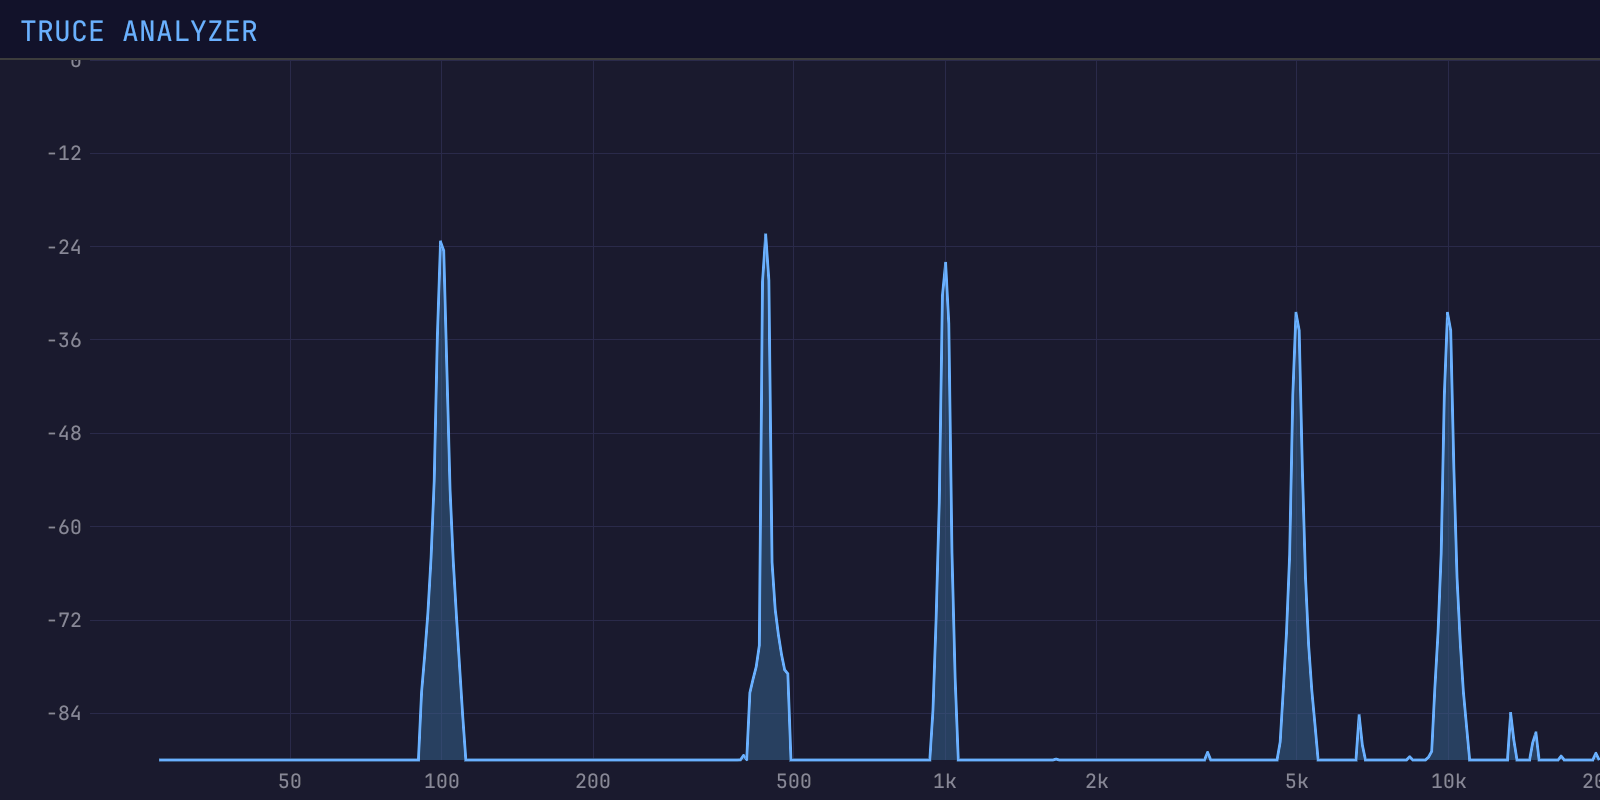
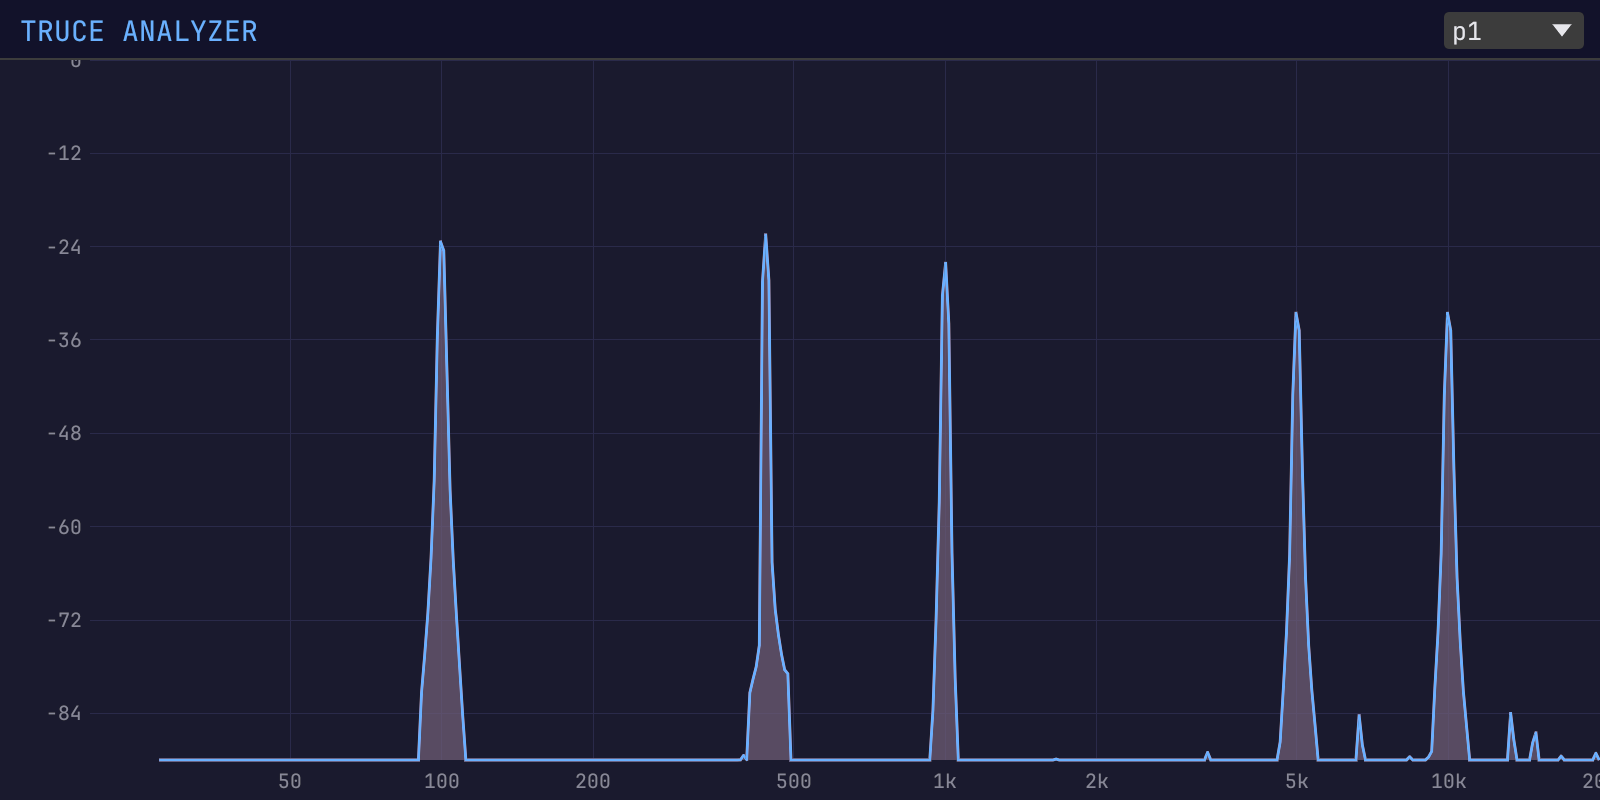
use egui's dropdown instead

diff --git a/src/lib.rs b/src/lib.rs
@@ -3,7 +3,6 @@ mod core;
 use std::sync::Arc;
 
 use truce::prelude::*;
-use truce_egui::widgets::param_dropdown;
 use truce_egui::{EguiEditor, ParamState};
 
 use crate::core::{
@@ -174,12 +173,22 @@ fn analyzer_ui(
                         .strong(),
                 );
                 ui.with_layout(egui::Layout::right_to_left(egui::Align::Center), |ui| {
-                    ui.add_space(10.0);
-                    let options: Vec<String> = ["Both", "Left", "Right", "Sum", "Diff"]
-                        .iter()
-                        .map(|s| s.to_string())
-                        .collect();
-                    param_dropdown(ui, state, P::Channel, "", 5, &options);
+                    ui.add_space(8.0);
+                    let channel_id: u32 = P::Channel.into();
+                    let current = state.format(channel_id);
+                    let options = ["Both", "Left", "Right", "Sum", "Diff"];
+                    egui::ComboBox::from_id_salt("channel_mode")
+                        .selected_text(current)
+                        .width(70.0)
+                        .show_ui(ui, |ui| {
+                            for (i, &label) in options.iter().enumerate() {
+                                let norm = i as f64 / (options.len() - 1) as f64;
+                                let selected = (state.get(channel_id) - norm).abs() < 0.01;
+                                if ui.selectable_label(selected, label).clicked() {
+                                    state.set_immediate(channel_id, norm);
+                                }
+                            }
+                        });
                 });
             });
         });
@@ -387,13 +396,9 @@ mod tests {
         truce_test::assert_no_nans(&result.output);
     }
 
-    #[test]
-    fn gui_screenshot() {
-        let freqs = cqt_center_frequencies();
-        let spectrum = Arc::new(SpectrumData::new(freqs));
+    fn generate_test_signal(spectrum: &Arc<SpectrumData>) {
         let mut core = AnalyzerCore::new(spectrum.clone());
         core.reset(44100.0);
-
         let sr = 44100.0f32;
         let pi2 = 2.0 * std::f32::consts::PI;
         for i in 0..135_000 {
@@ -405,6 +410,13 @@ mod tests {
                 + 0.10 * (pi2 * 10000.0 * t).sin();
             core.process_stereo(signal, signal);
         }
+    }
+
+    #[test]
+    fn gui_screenshot() {
+        let freqs = cqt_center_frequencies();
+        let spectrum = Arc::new(SpectrumData::new(freqs));
+        generate_test_signal(&spectrum);
 
         let num_bins = spectrum.num_bins();
         let bins_a = RefCell::new(vec![DB_FLOOR; num_bins]);
@@ -429,4 +441,5 @@ mod tests {
             },
         );
     }
+
 }
